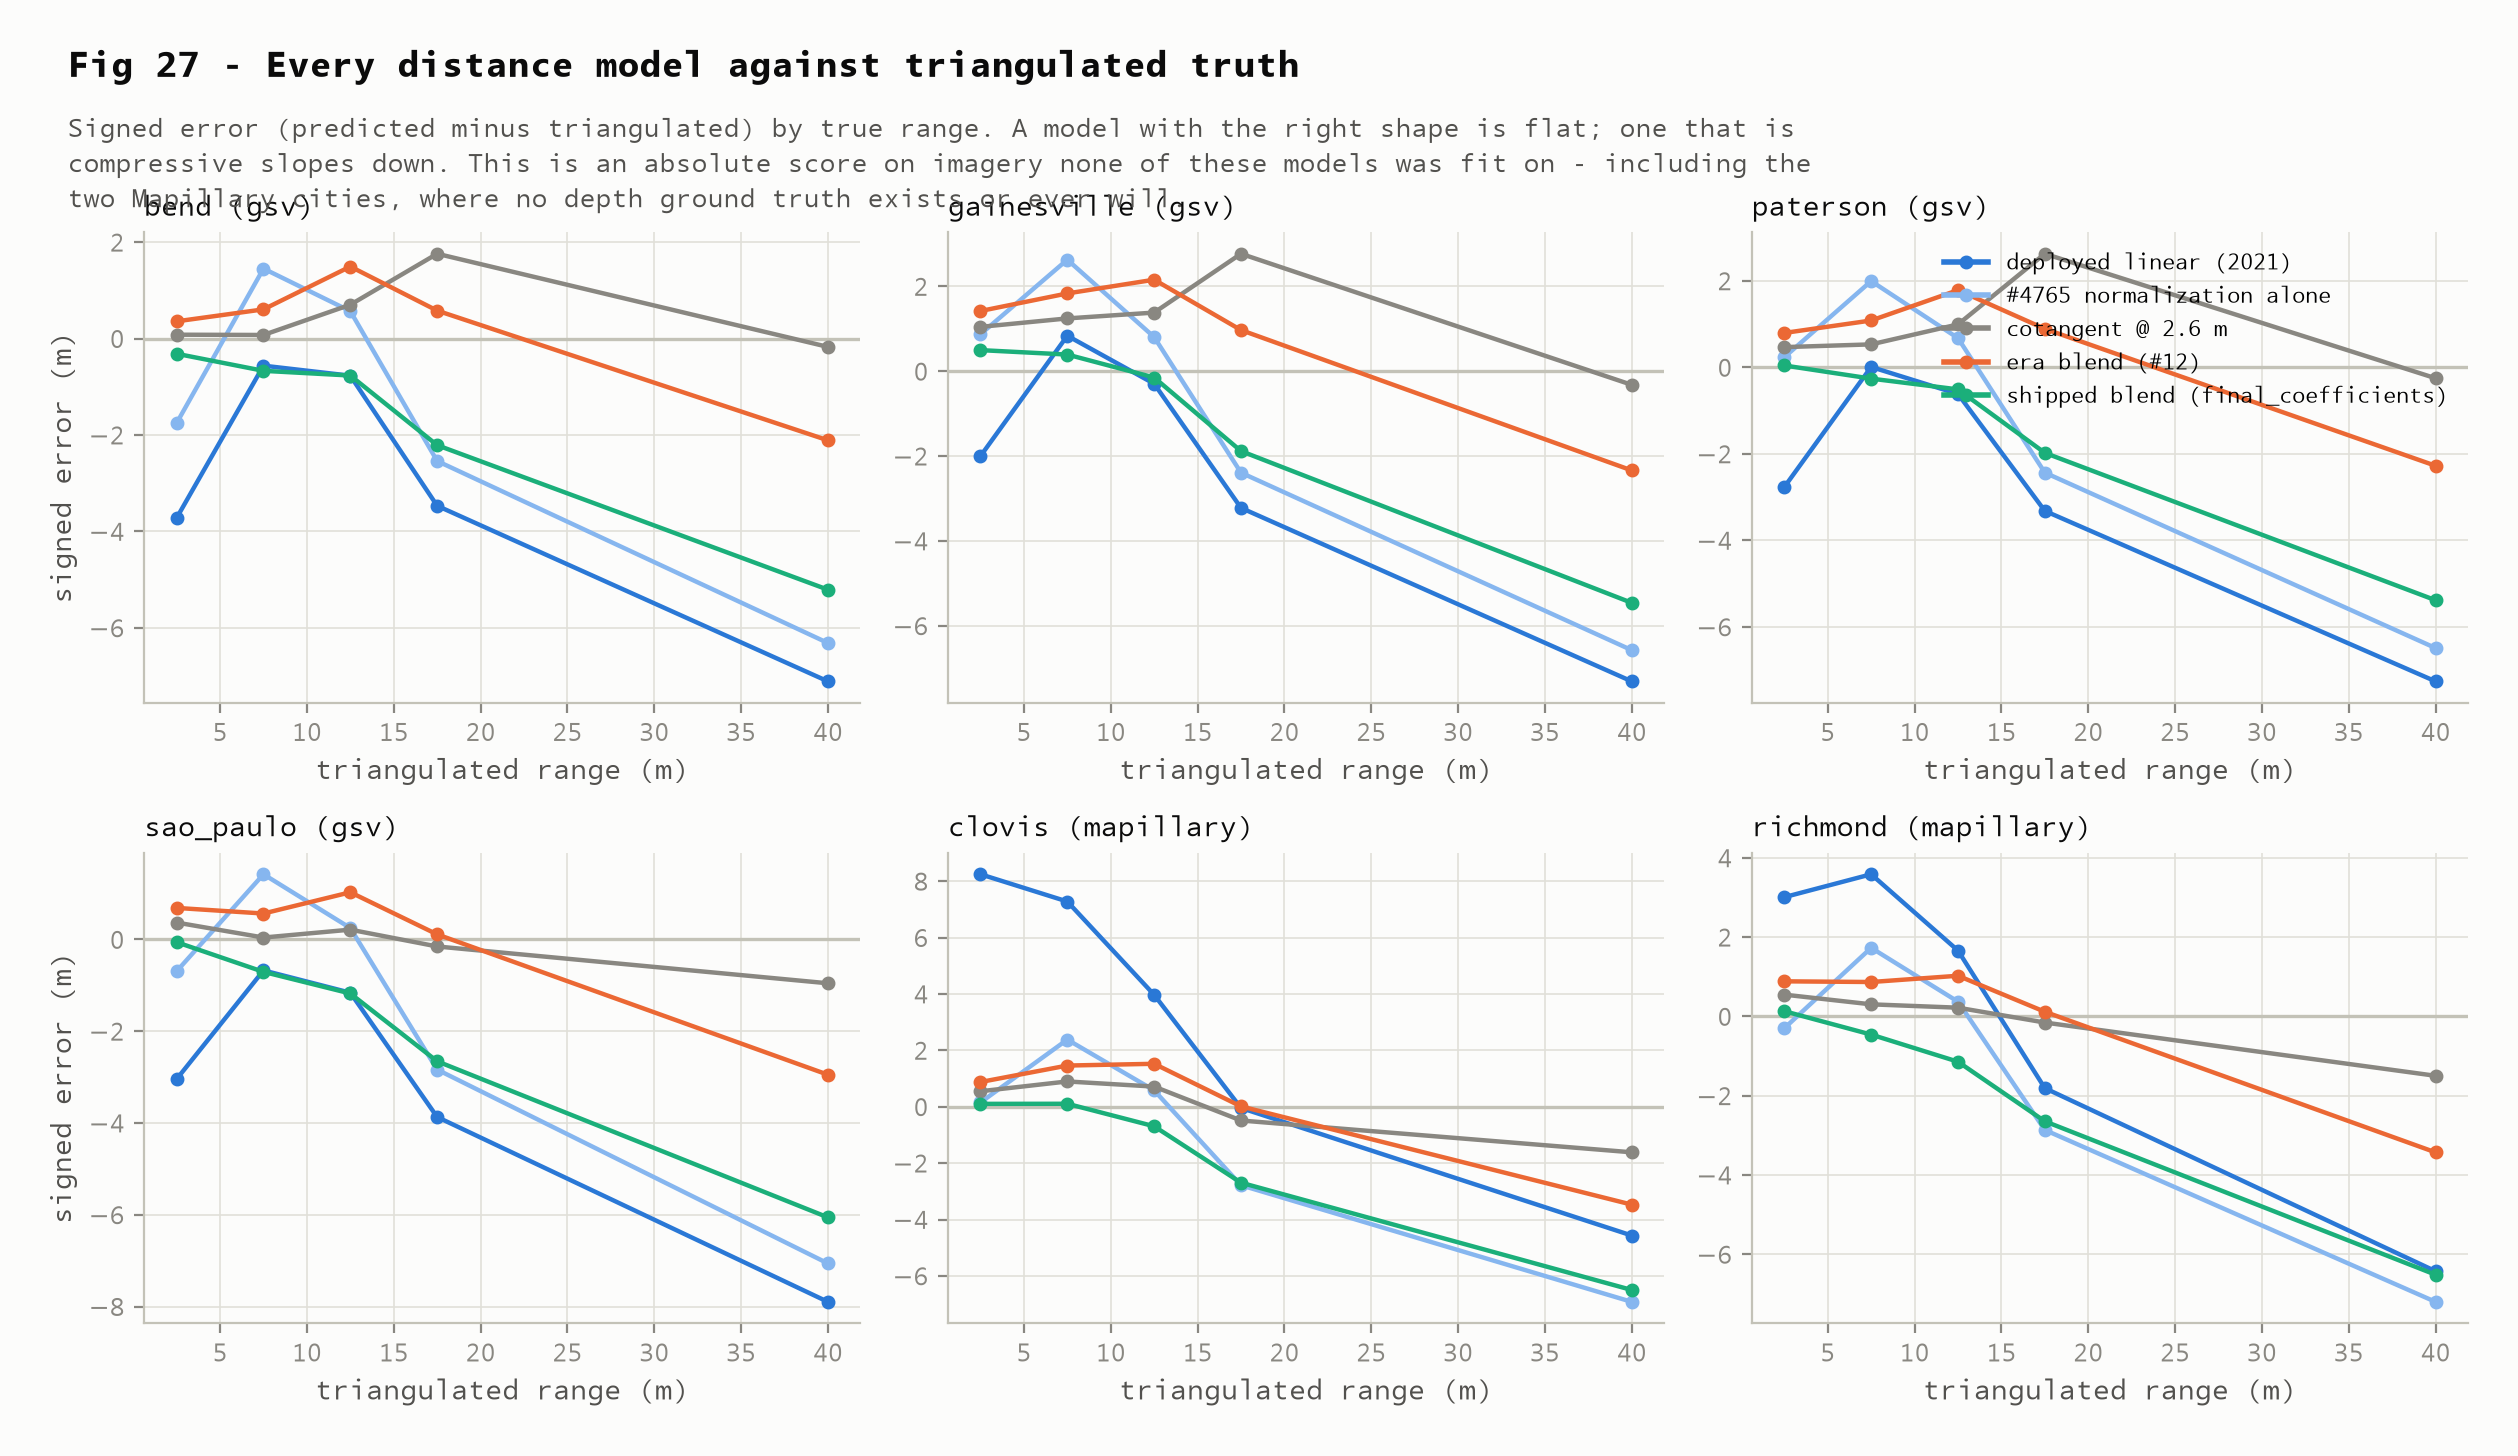
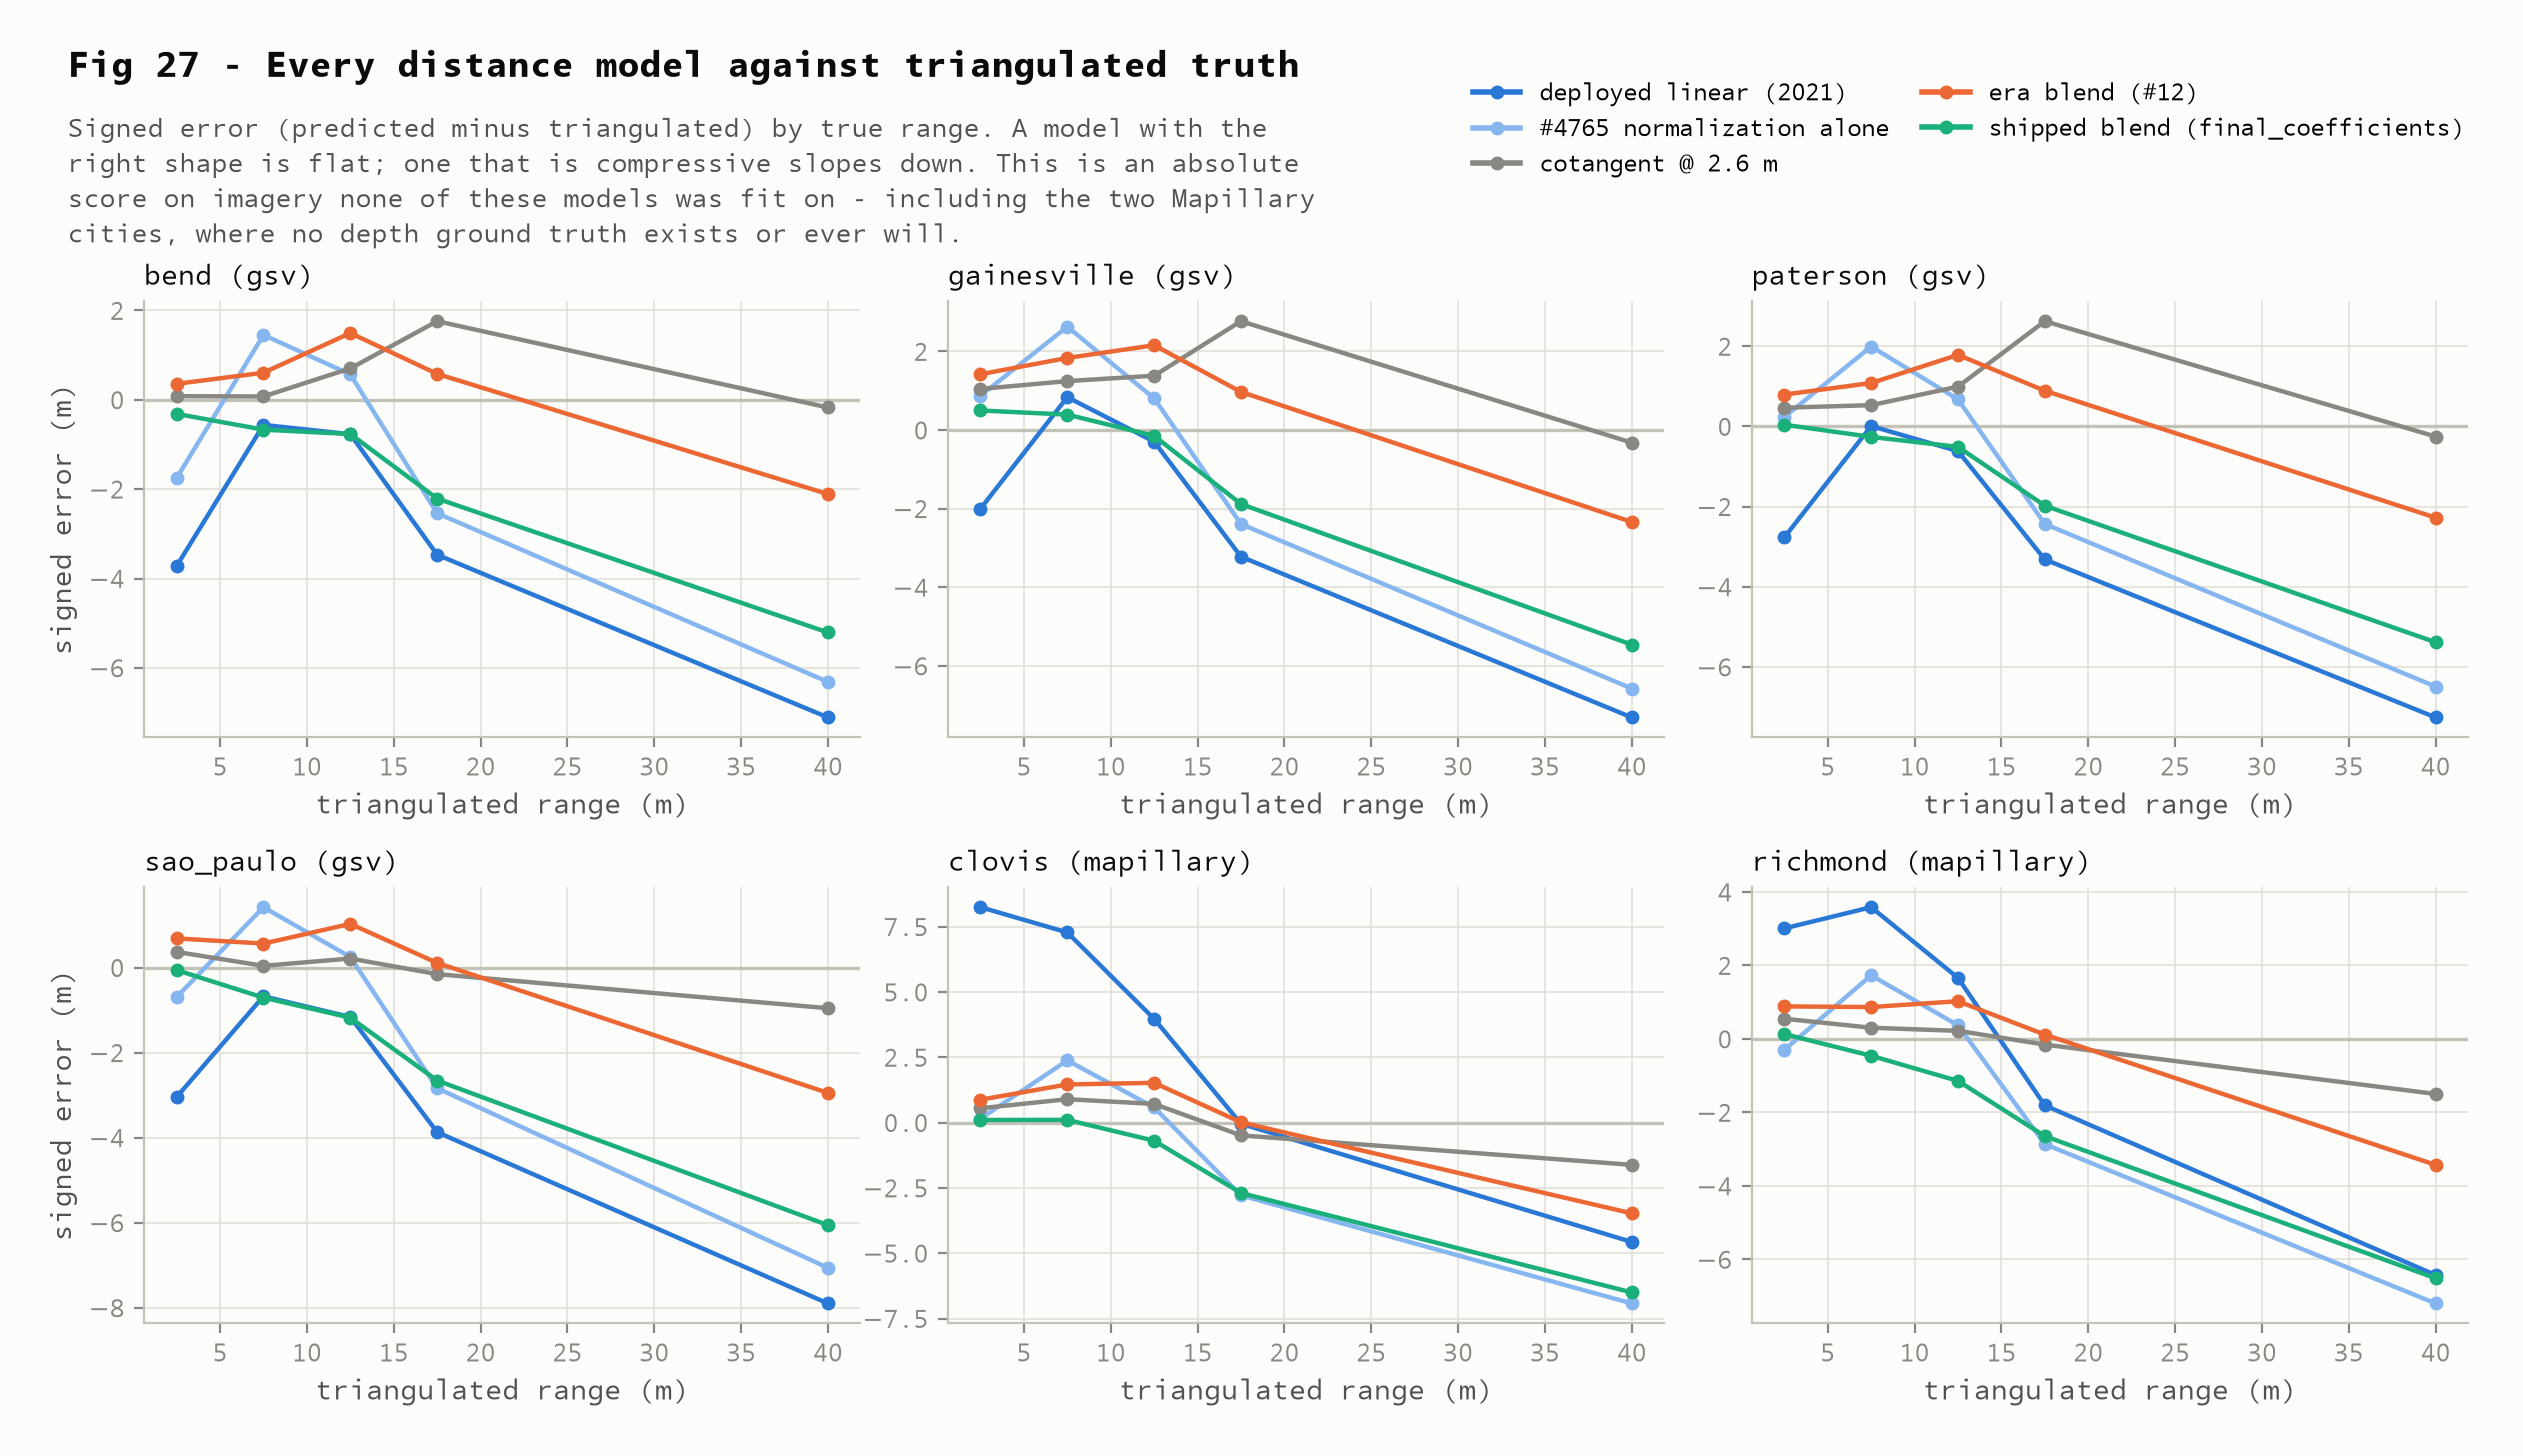
Fix figure 27's legend and title collision
The legend ran over the suptitle and the subtitle ran into the first row of
subplot titles. Figure-level two-column legend anchored to the right, and the
top margin scaled by row count so it holds when the run list changes.

diff --git a/python/triangulation_figures.py b/python/triangulation_figures.py
@@ -288,14 +288,15 @@ def fig27(s):
 
     handles = [plt.Line2D([], [], color=MODEL_COLOR[k], lw=2, marker="o", ms=4,
                           label=MODEL_LABEL[k]) for k in MODEL_LABEL]
-    axes[0][ncol - 1].legend(handles=handles, loc="upper right", fontsize=8)
+    fig.legend(handles=handles, loc="upper right", ncol=2, fontsize=8.5,
+               bbox_to_anchor=(0.995, 0.982), columnspacing=1.4)
 
     _title(fig, "Fig 27 - Every distance model against triangulated truth",
            "Signed error (predicted minus triangulated) by true range. A model with the "
            "right shape is flat; one that is compressive slopes down. This is an absolute "
            "score on imagery none of these models was fit on - including the two Mapillary "
-           "cities, where no depth ground truth exists or ever will.")
-    fig.tight_layout(rect=[0, 0, 1, 1 - 0.09 / nrow])
+           "cities, where no depth ground truth exists or ever will.", wrap=78)
+    fig.tight_layout(rect=[0, 0, 1, 1 - 0.66 / (3.5 * nrow)])
     _save(fig, "fig27-triangulation-model-scoring.png")
 
 
